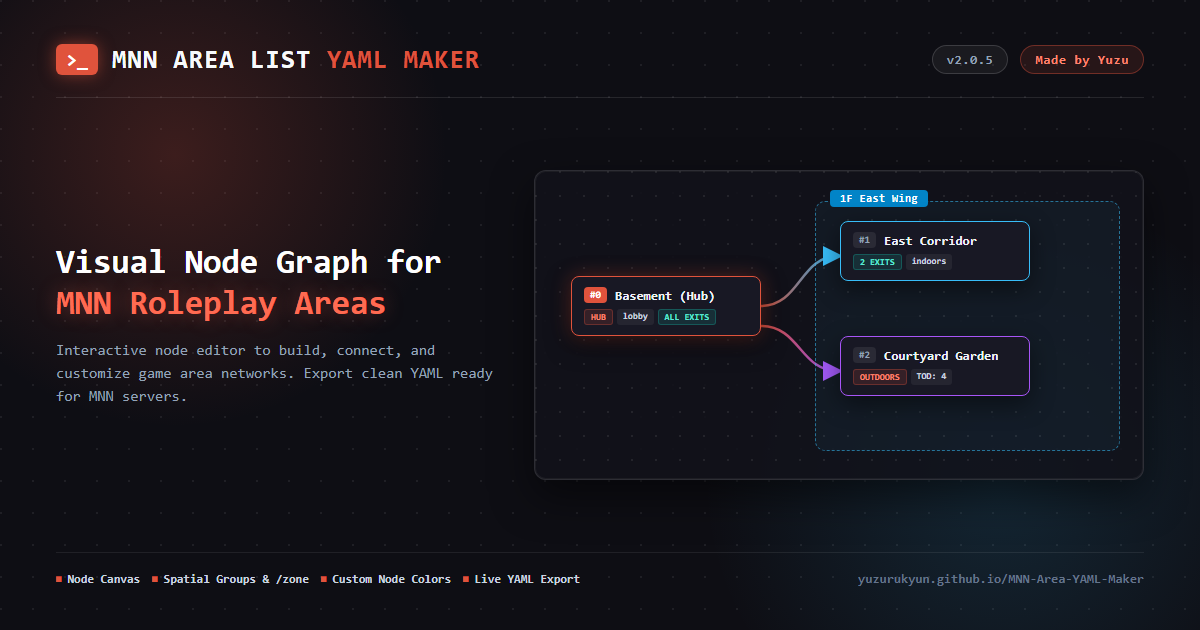
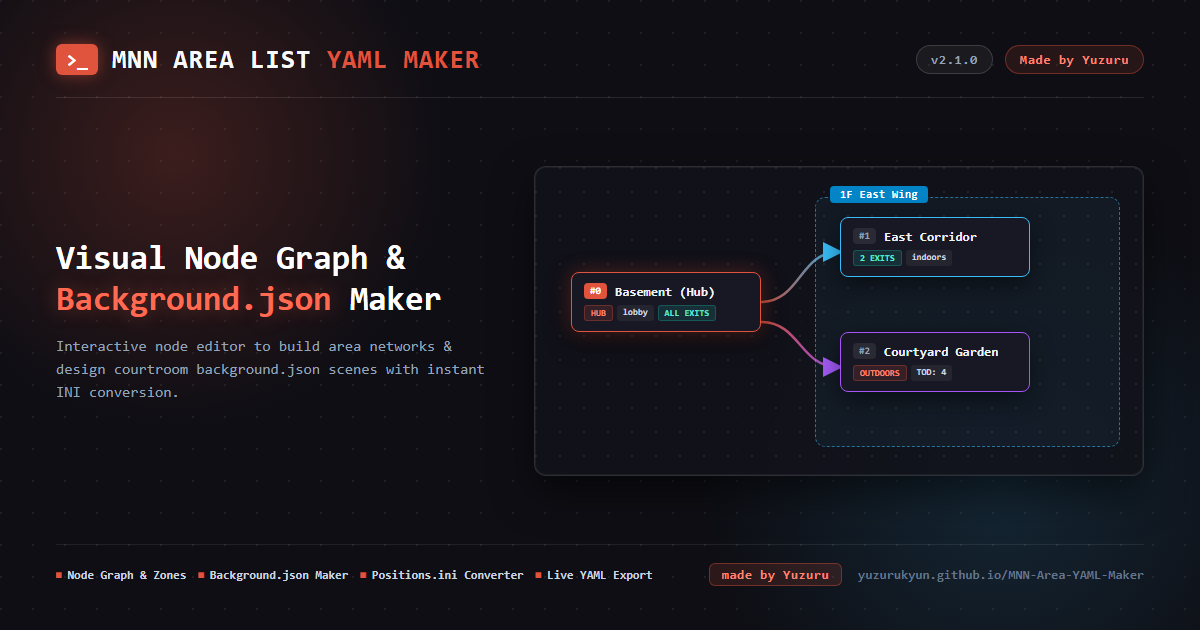
docs(embed): update og-image branding with made by Yuzuru footer badge and background maker highlights

diff --git a/docs/index.html b/docs/index.html
@@ -6,27 +6,27 @@
     <title>MNN Area List YAML Maker</title>
 
     <!-- Primary Meta Tags -->
-    <meta name="title" content="MNN Area List YAML Maker" />
-    <meta name="description" content="Visual node-based network editor, area mapper, and YAML configuration tool for MNN areas. Built by Yuzu." />
+    <meta name="title" content="MNN Area List YAML & Background.json Maker" />
+    <meta name="description" content="Visual node-based network editor, area mapper, and Background.json Maker for TsuMNN / Attorney Online. Made by Yuzuru." />
 
     <!-- Open Graph / Discord / Facebook -->
     <meta property="og:type" content="website" />
     <meta property="og:url" content="https://yuzurukyun.github.io/MNN-Area-YAML-Maker/" />
-    <meta property="og:site_name" content="MNN Area List YAML Maker" />
-    <meta property="og:title" content="MNN Area List YAML Maker" />
-    <meta property="og:description" content="Visual node-based network editor, area mapper, and YAML configuration tool for MNN areas. Built by Yuzu." />
+    <meta property="og:site_name" content="MNN Area List YAML & Background.json Maker" />
+    <meta property="og:title" content="MNN Area List YAML & Background.json Maker" />
+    <meta property="og:description" content="Visual node-based network editor, area mapper, and Background.json Maker for TsuMNN / Attorney Online. Made by Yuzuru." />
     <meta property="og:image" content="https://yuzurukyun.github.io/MNN-Area-YAML-Maker/og-image.png" />
     <meta property="og:image:secure_url" content="https://yuzurukyun.github.io/MNN-Area-YAML-Maker/og-image.png" />
     <meta property="og:image:type" content="image/png" />
     <meta property="og:image:width" content="1200" />
     <meta property="og:image:height" content="630" />
-    <meta property="og:image:alt" content="MNN Area List YAML Maker — Visual node network editor by Yuzu" />
+    <meta property="og:image:alt" content="MNN Area List YAML & Background.json Maker — Made by Yuzuru" />
 
     <!-- Twitter / Discord Large Card -->
     <meta name="twitter:card" content="summary_large_image" />
     <meta name="twitter:url" content="https://yuzurukyun.github.io/MNN-Area-YAML-Maker/" />
-    <meta name="twitter:title" content="MNN Area List YAML Maker" />
-    <meta name="twitter:description" content="Visual node-based network editor, area mapper, and YAML configuration tool for MNN areas. Built by Yuzu." />
+    <meta name="twitter:title" content="MNN Area List YAML & Background.json Maker" />
+    <meta name="twitter:description" content="Visual node-based network editor, area mapper, and Background.json Maker for TsuMNN / Attorney Online. Made by Yuzuru." />
     <meta name="twitter:image" content="https://yuzurukyun.github.io/MNN-Area-YAML-Maker/og-image.png" />
 
     <!-- Discord Embed Accent Border Color (matches UI Crimson #e0533c) -->

diff --git a/index.html b/index.html
@@ -6,27 +6,27 @@
     <title>MNN Area List YAML Maker</title>
 
     <!-- Primary Meta Tags -->
-    <meta name="title" content="MNN Area List YAML Maker" />
-    <meta name="description" content="Visual node-based network editor, area mapper, and YAML configuration tool for MNN areas. Built by Yuzu." />
+    <meta name="title" content="MNN Area List YAML & Background.json Maker" />
+    <meta name="description" content="Visual node-based network editor, area mapper, and Background.json Maker for TsuMNN / Attorney Online. Made by Yuzuru." />
 
     <!-- Open Graph / Discord / Facebook -->
     <meta property="og:type" content="website" />
     <meta property="og:url" content="https://yuzurukyun.github.io/MNN-Area-YAML-Maker/" />
-    <meta property="og:site_name" content="MNN Area List YAML Maker" />
-    <meta property="og:title" content="MNN Area List YAML Maker" />
-    <meta property="og:description" content="Visual node-based network editor, area mapper, and YAML configuration tool for MNN areas. Built by Yuzu." />
+    <meta property="og:site_name" content="MNN Area List YAML & Background.json Maker" />
+    <meta property="og:title" content="MNN Area List YAML & Background.json Maker" />
+    <meta property="og:description" content="Visual node-based network editor, area mapper, and Background.json Maker for TsuMNN / Attorney Online. Made by Yuzuru." />
     <meta property="og:image" content="https://yuzurukyun.github.io/MNN-Area-YAML-Maker/og-image.png" />
     <meta property="og:image:secure_url" content="https://yuzurukyun.github.io/MNN-Area-YAML-Maker/og-image.png" />
     <meta property="og:image:type" content="image/png" />
     <meta property="og:image:width" content="1200" />
     <meta property="og:image:height" content="630" />
-    <meta property="og:image:alt" content="MNN Area List YAML Maker — Visual node network editor by Yuzu" />
+    <meta property="og:image:alt" content="MNN Area List YAML & Background.json Maker — Made by Yuzuru" />
 
     <!-- Twitter / Discord Large Card -->
     <meta name="twitter:card" content="summary_large_image" />
     <meta name="twitter:url" content="https://yuzurukyun.github.io/MNN-Area-YAML-Maker/" />
-    <meta name="twitter:title" content="MNN Area List YAML Maker" />
-    <meta name="twitter:description" content="Visual node-based network editor, area mapper, and YAML configuration tool for MNN areas. Built by Yuzu." />
+    <meta name="twitter:title" content="MNN Area List YAML & Background.json Maker" />
+    <meta name="twitter:description" content="Visual node-based network editor, area mapper, and Background.json Maker for TsuMNN / Attorney Online. Made by Yuzuru." />
     <meta name="twitter:image" content="https://yuzurukyun.github.io/MNN-Area-YAML-Maker/og-image.png" />
 
     <!-- Discord Embed Accent Border Color (matches UI Crimson #e0533c) -->

diff --git a/scripts/generate-og-image.html b/scripts/generate-og-image.html
@@ -292,6 +292,21 @@
     font-size: 10px;
     color: #e0533c;
   }
+  .footer-right {
+    display: flex;
+    align-items: center;
+    gap: 16px;
+  }
+  .footer-author {
+    font-size: 13px;
+    font-weight: 700;
+    color: #ff8570;
+    background: rgba(224, 83, 60, 0.14);
+    border: 1px solid rgba(224, 83, 60, 0.4);
+    padding: 3px 12px;
+    border-radius: 6px;
+    letter-spacing: 0.04em;
+  }
   .url-tag {
     font-size: 13px;
     color: #64748b;
@@ -311,17 +326,17 @@
       <div class="title-text">MNN AREA LIST <span>YAML MAKER</span></div>
     </div>
     <div class="badges">
-      <div class="badge">v2.0.5</div>
-      <div class="badge author">Made by Yuzu</div>
+      <div class="badge">v2.1.0</div>
+      <div class="badge author">Made by Yuzuru</div>
     </div>
   </div>
 
   <!-- Center Stage -->
   <div class="stage">
     <div class="pitch-col">
-      <div class="headline">Visual Node Graph for <em>MNN Roleplay Areas</em></div>
+      <div class="headline">Visual Node Graph &amp; <em>Background.json</em> Maker</div>
       <div class="subtext">
-        Interactive node editor to build, connect, and customize game area networks. Export clean YAML ready for MNN servers.
+        Interactive node editor to build area networks &amp; design courtroom background.json scenes with instant INI conversion.
       </div>
     </div>
 
@@ -400,12 +415,15 @@
   <!-- Bottom Bar -->
   <div class="bottom-bar">
     <div class="features">
-      <div class="feat-tag">Node Canvas</div>
-      <div class="feat-tag">Spatial Groups &amp; /zone</div>
-      <div class="feat-tag">Custom Node Colors</div>
+      <div class="feat-tag">Node Graph &amp; Zones</div>
+      <div class="feat-tag">Background.json Maker</div>
+      <div class="feat-tag">Positions.ini Converter</div>
       <div class="feat-tag">Live YAML Export</div>
     </div>
-    <div class="url-tag">yuzurukyun.github.io/MNN-Area-YAML-Maker</div>
+    <div class="footer-right">
+      <div class="footer-author">made by Yuzuru</div>
+      <div class="url-tag">yuzurukyun.github.io/MNN-Area-YAML-Maker</div>
+    </div>
   </div>
 </body>
 </html>

diff --git a/CHANGELOGS.md b/CHANGELOGS.md
@@ -679,12 +679,22 @@
     - Clicking anywhere on the canvas viewport (or hovering to reveal the `⛶ Click to expand` pill) opens an expanded high-resolution popup maintaining exact aspect ratios (`16:9`, `4:3`, custom) with backdrop and desk overlays.
     - Includes interactive Time of Day toggles (`☀ Day`, `🌆 Evening`, `🌙 Night`), full scene metadata, and one-click Escape/scrim dismissal.
 
+### Embed Image & Social Card Update
+
+- **OpenGraph & Twitter Card Branding (`scripts/generate-og-image.html`, `index.html`, `public/og-image.png`, `docs/og-image.png`, `export/og-image.png`):**
+    - Updated version badge to `v2.1.0` and author badge to `Made by Yuzuru`.
+    - Added a prominent `"made by Yuzuru"` bottom footer badge next to the canonical URL.
+    - Updated card headline and feature pills to highlight both the **Visual Node Graph** and the **Background.json Maker** with **Positions.ini Converter**.
+    - Updated HTML meta tags, OpenGraph descriptions, and Twitter Card metadata in `index.html` to reflect `v2.1.0` capabilities.
+    - Re-rendered pixel-perfect 1200×630 embed preview (`og-image.png`) across `public/`, `docs/`, and `export/`.
+
 ### Verification
 
 - `npm test` ([tests/core.test.mjs](tests/core.test.mjs)): **302 passed, 0 failed** (all assertions covering `getReferencedAssetInfo` alias/URL tracking, used vs unused asset disambiguation, ambience auto-switching, volume slider clamping [0, 1] and 0.30 default, resilient root directory import with images and audio retention, bloat filtering of `characters/`, `animations/`, `configs/`, `sounds/music/`, case-insensitive root repository import with `Base/` and `sounds/ambience/`, empty courtroom position foreground resolution, INI parser witness foreground retention, arbitrary root detection `MM/`, single-folder roots with ONLY `background` or ONLY `sounds`, clean room folder extraction, `clearAllBackgrounds()` zero-reset, INI parsing, courtroom position mapping with Witness default, duplicate asset collision disambiguation, audio server fallback, slot alias preservation, camera position duplication, slot clearing on purge, and state duplication).
 - `npm run build:both`: rebuilt `export/yuzu_area_maker.html` (5229 KB), `export/yuzu_area_maker_nomusic.html` (576 KB), and `docs/index.html` (576 KB) with 0 warnings and 0 errors.
 - Verified on real disk assets: tested against actual repository `base/` (6,343 files) — successfully extracted 140 backgrounds, imported 346 unique images and 175 ambient audios (521 total assets), and cleanly filtered out 5,602 non-background/non-ambient bloat files with 0 dropped images or sounds.
 - Live browser CDP tests verified:
+    - **Embed OG-Image & "Made by Yuzuru" Footer Badge:** Verified 1200×630 embed preview generation with "made by Yuzuru" footer badge, v2.1.0 version tag, and Background.json Maker pitch ([verified_updated_embed_og_image.png](file:///C:/Users/user/.gemini/antigravity/brain/3189314c-7a18-42e5-ab0c-aba948813dfc/verified_updated_embed_og_image.png)).
     - **Horizontal Split Layout & Solid Sticky Table Header:** Verified two-column split in `repo-inspect-modal` with letterboxed preview on left and usages listing on right. Confirmed `.repo-usages-table th` has solid opaque background (`rgb(21, 21, 27)`) and sticky position without text bleed-through ([verified_repo_asset_horizontal_split_modal.png](file:///C:/Users/user/.gemini/antigravity/brain/3189314c-7a18-42e5-ab0c-aba948813dfc/verified_repo_asset_horizontal_split_modal.png)).
     - **Fullscreen Live Stage Monitor Popup:** Clicking the Live Stage Monitor canvas opened the fullscreen popup with high-resolution canvas, TOD pills, aspect ratio, and clean Escape dismissal ([verified_fullscreen_stage_monitor.png](file:///C:/Users/user/.gemini/antigravity/brain/3189314c-7a18-42e5-ab0c-aba948813dfc/verified_fullscreen_stage_monitor.png)).
     - **Volume Slider & Default Ear-Protection Setting:** Initial volume slider loaded at `0.30` (30%) with `🔉` icon and audio volume synced to `0.3` ([verified_ambience_volume_slider_and_controls.png](file:///C:/Users/user/.gemini/antigravity/brain/3189314c-7a18-42e5-ab0c-aba948813dfc/verified_ambience_volume_slider_and_controls.png)).
